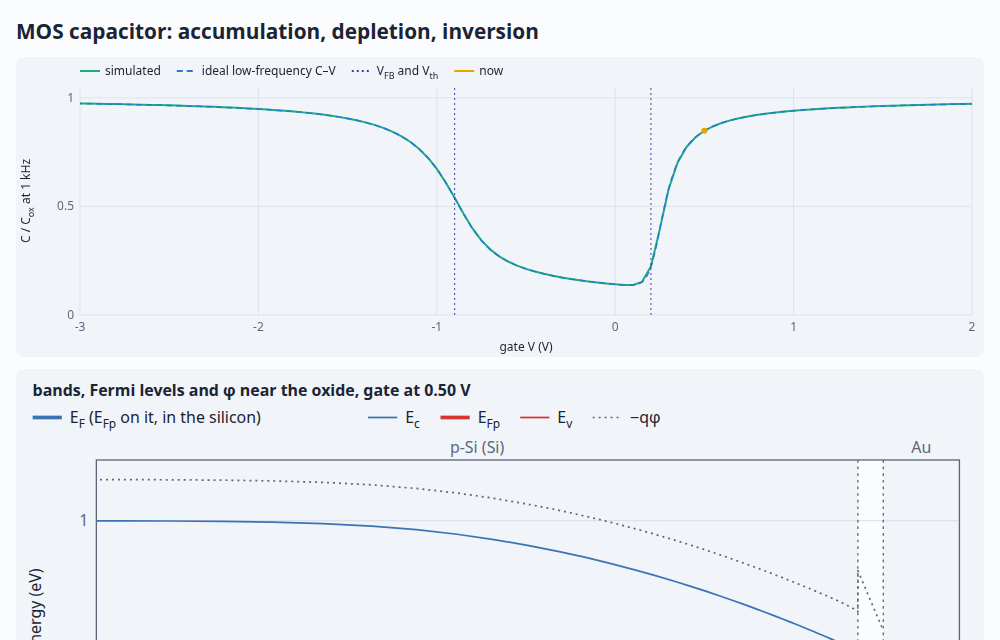
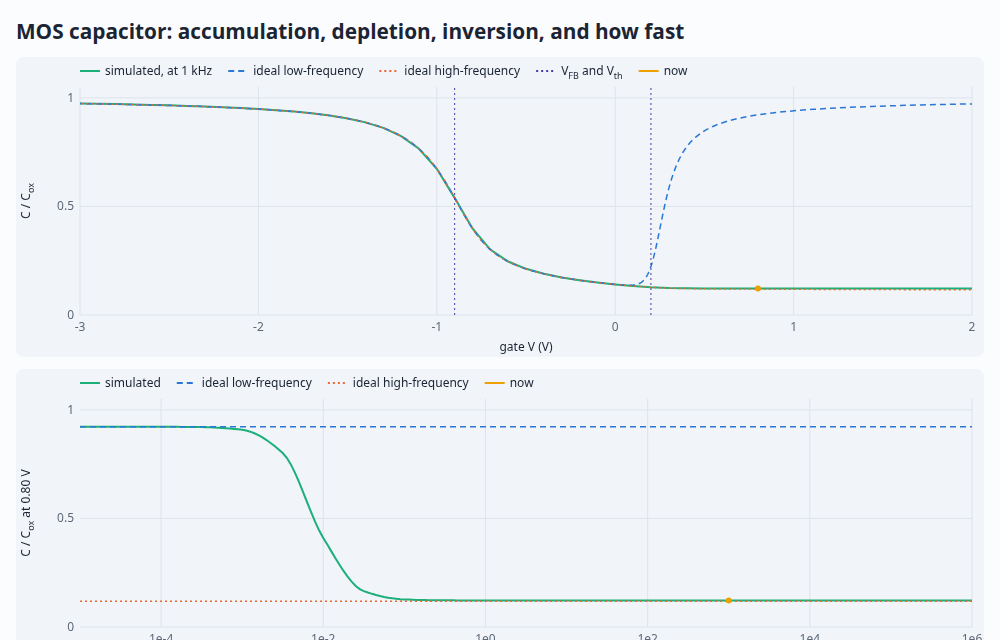
MOS demo: C–V at any frequency, and the minority lifetime
The capacitor alone now (no channel port): its inversion electrons come from
generation in the silicon (SRH, a lifetime slider, or none, leaving diffusion
from the back contact). A frequency slider from 10 µHz to 1 MHz sets the C–V
curve, from the ideal low-frequency one to the high-frequency one, each half
decade solved by the impedance and interpolated (a monotone cubic in log f);
a second chart is the capacitance against frequency at the present gate
voltage, the step where generation stops keeping the layer filled. The
charts take logx.

diff --git a/demos/mos.html b/demos/mos.html
@@ -10,17 +10,23 @@
 <body>
 <main>
 <nav class="site"><a href="./">← all demos</a><a href="https://github.com/markblundeberg/driftlet">driftlet on GitHub</a></nav>
-  <h1>MOS capacitor: accumulation, depletion, inversion</h1>
-  <p>p-type silicon under 5 nm of oxide and a metal gate: its capacitance against the ideal low-frequency
-    C–V curve, and the bands bending at the surface, from accumulation through depletion to inversion. Vary
-    the gate voltage and the doping. (More about the model below.)</p>
-  <div class="controls">
-    <label>gate V <input id="V" type="range" min="-3" max="2" step="0.05" value="0.5"><output id="Vout"></output></label>
+  <h1>MOS capacitor: accumulation, depletion, inversion, and how fast</h1>
+  <p>p-type silicon under 5 nm of oxide and a metal gate: its capacitance at the frequency you choose, against
+    the ideal low- and high-frequency C–V curves, and the bands bending at the surface, from accumulation
+    through depletion to inversion. Slow enough, the inversion layer's electrons follow the gate and the
+    capacitance climbs back to C<sub>ox</sub>; faster, they can't arrive in time, and it stays low. How
+    fast they arrive is set by generation in the silicon (its minority lifetime). (More about the model
+    below.)</p>
+  <div class="controls" id="controls">
+    <label>gate V <input id="V" type="range" min="-3" max="2" step="0.05" value="0.8"><output id="Vout"></output></label>
+    <label>frequency <input id="f" type="range" min="-5" max="6" step="0.05" value="3"><output id="fout"></output></label>
+    <label>lifetime <input id="tau" type="range" min="-9" max="-2" step="0.5" value="-6"><output id="tauout"></output></label>
     <label>doping <input id="NA" type="range" min="16" max="18" step="0.25" value="17"><output id="NAout"></output></label>
     <span class="readout" id="Q"></span>
   </div>
   <div class="grid">
     <canvas class="wide" id="cv"></canvas>
+    <canvas class="wide" id="cf"></canvas>
     <div class="levels wide" id="levels"></div>
     <div class="levels wide" id="conc"></div>
   </div>
@@ -36,9 +42,11 @@
     volts and turned over are <a href="https://github.com/markblundeberg/driftlet/blob/master/docs/visualization.md">species voltages</a>, which earn
     their place where ions share the diagram, as in the electrochemistry and perovskite demos.) Negative bias pulls holes to the surface (accumulation), moderate
     positive bias pushes them away (depletion), and beyond threshold electrons gather in a thin inversion
-    layer. Those electrons come from a port holding them at ground beside the oxide, the 1D stand-in for a
-    transistor's source and drain; without it, they'd have to diffuse in from the back contact, which takes
-    minutes.</p>
+    layer. Those electrons have to come from the silicon itself: generated thermally in the depletion region
+    (the reaction e⁻ + h⁺ ⇌ 0 run backwards, at the Shockley–Read–Hall rate set by the lifetime τ), or
+    diffusing in from the back contact through a bulk that holds only ~10³ of them per cm³. Either way it's
+    slow, which is the point of the frequency control. (In a transistor, source and drain supply them at
+    once; this is the capacitor alone.)</p>
   <p>The electrostatic potential is drawn too, as −qφ (dotted), in the silicon and across the oxide, to show
     what it is and what it isn't. In the oxide, which holds no mobile charge, it's the only line there is,
     and its slope is the oxide field. In the silicon the band edges ride on it, E<sub>c</sub> = −qφ + const,
@@ -48,12 +56,23 @@
     minus φ beside it, when the gate is uncharged) changes to match: the capacitance comes out the same to
     every digit. And φ doesn't meet the gate's Fermi level: a metal has no φ worth comparing, so the line
     just stops.</p>
-  <p>The capacitance at 1 kHz follows the ideal low-frequency C–V curve (dashed: the oxide in series with the
-    silicon's dQ/dψ, from the closed-form surface charge), to four digits. Flat band is at
-    V<sub>FB</sub> = zeroCharge + dipole + φ<sub>bulk</sub>: each term depends on the anchoring, but their sum
-    doesn't, and it's set by the gate interface (a work-function difference). Threshold is where the surface
-    has inverted as strongly as the bulk is doped, ψ<sub>s</sub> = 2φ<sub>F</sub>. More doping widens the
-    window between them and deepens the dip.</p>
+  <p>The capacitance is the small-signal response to a sinusoid on the gate at the chosen frequency
+    (driftlet's impedance, C = −1/(ωZ″)), at each gate voltage, solved for every half decade and interpolated
+    between. Slow enough, it follows the ideal low-frequency C–V curve (dashed: the oxide in series with the
+    silicon's dQ/dψ, from the closed-form surface charge), to 5e-4 of C<sub>ox</sub> at the slowest: accumulation near C<sub>ox</sub>, a
+    depletion dip, and inversion back up, as the inversion layer's electrons come and go with the gate. Fast,
+    only the holes and the depletion edge respond, and in inversion the capacitance stays at its minimum:
+    the high-frequency curve. Its ideal form (dotted) freezes the minority charge in place; here the
+    electrons can't be replaced at that speed but can still shift within the layer, which holds a few percent
+    more (Brews's correction). The lower chart is the capacitance against frequency at the gate voltage
+    you're at: in inversion, a step from one curve to the other, at the frequency where generation can just
+    keep the layer filled. Shorter lifetimes move it up, about tenfold per decade of τ; with no generation at
+    all (the slider's top end), the electrons can only diffuse in from the back contact, and it falls to a
+    millihertz.</p>
+  <p>Flat band is at V<sub>FB</sub> = zeroCharge + dipole + φ<sub>bulk</sub>: each term depends on the
+    anchoring, but their sum doesn't, and it's set by the gate interface (a work-function difference).
+    Threshold is where the surface has inverted as strongly as the bulk is doped, ψ<sub>s</sub> =
+    2φ<sub>F</sub>. More doping widens the window between them and deepens the dip.</p>
 </main>
 <script type="module">
 import { Device, EPS0, AVOGADRO, FARADAY, GAS_CONSTANT, units } from '../src/index.js';
@@ -71,7 +90,7 @@ const anchor = 0.3, dipole = -0.3, zeroCharge = 0.7;
 const silicon = semiconductor('Si');
 silicon.materials.Si.species['e-'].mu0 -= FARADAY * anchor;
 silicon.materials.Si.species['h+'].mu0 += FARADAY * anchor;
-const mos = (NA) =>
+const mos = (NA, tau) =>
   build({
     T: 300,
     library: [silicon, metal('Au')],
@@ -87,73 +106,136 @@ const mos = (NA) =>
       layer('Au', units.nm(50)),
       ohmic(0, ['e-']), // the gate's terminal
     ],
-    // Source and drain in 1D: the inversion layer's electrons held at ground beside the oxide.
-    ports: [{ name: 'channel', region: 'p-Si', from: Lsi - units.nm(5), V: 0, terminal: 'e-', species: { 'e-': 'equilibrium' } }],
+    // Generation and recombination through midgap traps (SRH), lifetime τ for both carriers; none at
+    // all leaves the inversion layer only the bulk's minority electrons, diffusing in.
+    bulkReactions: tau ? [{ equation: 'e- + h+ = 0', srh: { Si: { tauN: tau, tauP: tau } } }] : [],
     grid: { hmin: units.nm(0.1), hmax: units.nm(10), ratio: 1.1 },
   });
 
-const gate = document.getElementById('V'), doping = document.getElementById('NA');
-fromQuery(gate);
-fromQuery(doping);
+const gate = document.getElementById('V'), doping = document.getElementById('NA'), freq = document.getElementById('f'), life = document.getElementById('tau');
+for (const el of [gate, doping, freq, life]) fromQuery(el);
 const NA = () => units.perCm3(10 ** +doping.value); // from 1e16: below, depletion would reach the back contact
+const tau = () => (+life.value >= -2 ? 0 : 10 ** +life.value); // the top end: no generation
+const f = () => 10 ** +freq.value;
 
-// The ideal low-frequency C–V: the surface charge Q_s(ψ_s) in closed form (p₀, n₀ the bulk's
-// densities), the gate voltage V_FB + ψ_s − Q_s/C_ox, and C_ox in series with dQ_s/dψ_s.
+// The ideal C–V curves from the surface charge Q_s(ψ_s) in closed form (p₀, n₀ the bulk's densities):
+// the gate voltage V_FB + ψ_s − Q_s/C_ox, and C_ox in series with the silicon's small-signal dQ/dψ_s:
+// all of Q_s at low frequency, only the holes' and the depletion's at high frequency (the minority
+// charge frozen in place).
 const kT = GAS_CONSTANT * 300, VT = kT / FARADAY, eps = 11.9 * EPS0, Cox = (3.9 * EPS0) / tox;
 function ideal({ p0, n0, VFB }) {
-  const Qs = (psi) => {
-    const b = psi / VT, F2 = Math.exp(-b) + b - 1 + (n0 / p0) * (Math.exp(b) - b - 1);
+  const Qs = (psi, minority = true) => {
+    const b = psi / VT, F2 = Math.exp(-b) + b - 1 + (minority ? (n0 / p0) * (Math.exp(b) - b - 1) : 0);
     return -Math.sign(psi) * Math.sqrt(2 * eps * kT * p0 * Math.max(F2, 0));
   };
-  const V = [], C = [];
+  const V = [], low = [], high = [], h = 1e-5;
   for (let psi = -0.4; psi <= 1.4; psi += 0.005) {
-    const h = 1e-5, Cs = Math.abs(Qs(psi + h) - Qs(psi - h)) / (2 * h);
     V.push(VFB + psi - Qs(psi) / Cox);
-    C.push(1 / (1 + Cox / Cs));
+    low.push(1 / (1 + Cox / (Math.abs(Qs(psi + h) - Qs(psi - h)) / (2 * h))));
+    high.push(1 / (1 + Cox / (Math.abs(Qs(psi + h, false) - Qs(psi - h, false)) / (2 * h))));
   }
   const phiF = VT * Math.log(p0 / Math.sqrt(p0 * n0));
-  return { V, C, VFB, Vth: VFB + 2 * phiF - Qs(2 * phiF) / Cox };
+  return { V, low, high, VFB, Vth: VFB + 2 * phiF - Qs(2 * phiF) / Cox };
 }
+const at = (xs, ys, x) => {
+  let k = 0;
+  while (k < xs.length - 2 && xs[k + 1] < x) k++;
+  const w = Math.min(1, Math.max(0, (x - xs[k]) / (xs[k + 1] - xs[k])));
+  return ys[k] + w * (ys[k + 1] - ys[k]);
+};
 
-// The C–V curve from the small-signal impedance at 1 kHz at each gate voltage, and the theory.
-let cv;
+// The capacitance at every gate voltage (each 0.1 V) and every half decade of frequency, from the
+// small-signal impedance about each steady state; the frequency slider interpolates in log f.
+const VS = Array.from({ length: 51 }, (_, k) => -3 + 0.1 * k);
+const FS = Array.from({ length: 23 }, (_, k) => 10 ** (-5 + 0.5 * k));
+let table;
 function sweep() {
-  const dev = new Device(mos(NA())), rest = dev.solve(), bulk = Math.floor(rest.x.length / 5);
-  cv = { V: [], C: [], theory: ideal({ p0: rest.c['h+'][bulk], n0: rest.c['e-'][bulk], VFB: zeroCharge + dipole + rest.phi[bulk] }) };
-  for (let V = -3; V <= 2.001; V += 0.05) {
+  const dev = new Device(mos(NA(), tau())), rest = dev.solve(), bulk = Math.floor(rest.x.length / 5);
+  table = { C: [], theory: ideal({ p0: rest.c['h+'][bulk], n0: rest.c['e-'][bulk], VFB: zeroCharge + dipole + rest.phi[bulk] }) };
+  for (const V of VS) {
     dev.set({ contacts: { right: { V } } });
-    cv.V.push(V);
-    cv.C.push(-1 / (2 * Math.PI * 1e3 * dev.impedance([1e3]).Z.im[0]) / Cox);
+    dev.solve();
+    const Z = dev.impedance(FS).Z;
+    table.C.push(FS.map((fk, k) => -1 / (2 * Math.PI * fk * Z.im[k]) / Cox));
   }
 }
+// C/C_ox at gate voltage V and frequency f, from the table: linear in V, and in log f a monotone
+// cubic (Fritsch–Carlson), smooth through the step without overshooting it.
+const lf = FS.map(Math.log10);
+function pchip(xs, ys, x) {
+  const n = xs.length;
+  let k = 0;
+  while (k < n - 2 && xs[k + 1] < x) k++;
+  const h = xs[k + 1] - xs[k], t = Math.min(1, Math.max(0, (x - xs[k]) / h));
+  const slope = (i) => (ys[i + 1] - ys[i]) / (xs[i + 1] - xs[i]);
+  const tangent = (i) => {
+    if (i === 0) return slope(0);
+    if (i === n - 1) return slope(n - 2);
+    const a = slope(i - 1), b = slope(i);
+    return a * b <= 0 ? 0 : (2 * a * b) / (a + b);
+  };
+  const m0 = tangent(k) * h, m1 = tangent(k + 1) * h, t2 = t * t, t3 = t2 * t;
+  return (2 * t3 - 3 * t2 + 1) * ys[k] + (t3 - 2 * t2 + t) * m0 + (-2 * t3 + 3 * t2) * ys[k + 1] + (t3 - t2) * m1;
+}
+const C = (V, fq) => at(VS, VS.map((_, j) => pchip(lf, table.C[j], Math.log10(fq))), V);
+const FF = Array.from({ length: 221 }, (_, k) => 10 ** (-5 + 0.05 * k)); // for drawing
 sweep();
 
-const dev = live(mos(NA()), { onsolution: draw });
+const dev = live(mos(NA(), tau()), { onsolution: draw });
 const update = () => dev.set({ contacts: { right: { V: +gate.value } } });
 gate.addEventListener('input', update);
-doping.addEventListener('input', () => (document.getElementById('NAout').textContent = `${(10 ** +doping.value).toExponential(1)} cm⁻³`));
-doping.addEventListener('change', () => {
-  sweep();
-  dev.set(mos(NA()));
-  update();
-});
+freq.addEventListener('input', () => draw(dev.solution));
+const labels = () => {
+  document.getElementById('NAout').textContent = `${(10 ** +doping.value).toExponential(1)} cm⁻³`;
+  const t = tau();
+  document.getElementById('tauout').textContent = t === 0 ? 'no generation' : t < 1e-6 ? `${+(t * 1e9).toPrecision(2)} ns` : t < 1e-3 ? `${+(t * 1e6).toPrecision(2)} µs` : `${+(t * 1e3).toPrecision(2)} ms`;
+  const fq = f();
+  document.getElementById('fout').textContent = fq < 1 ? `${+fq.toPrecision(2)} Hz` : fq < 1e3 ? `${+fq.toPrecision(2)} Hz` : fq < 1e6 ? `${+(fq / 1e3).toPrecision(2)} kHz` : `${+(fq / 1e6).toPrecision(2)} MHz`;
+};
+for (const el of [doping, life]) {
+  el.addEventListener('input', labels);
+  el.addEventListener('change', () => {
+    sweep();
+    dev.set(mos(NA(), tau()));
+    update();
+  });
+}
 update();
 
 function draw(sol) {
-  const V = sol.terminals.right.V, { VFB, Vth } = cv.theory;
+  if (!sol) return;
+  labels();
+  const V = sol.terminals.right.V, fq = f(), { VFB, Vth } = table.theory;
   document.getElementById('Vout').textContent = `${V.toFixed(2)} V`;
-  document.getElementById('NAout').textContent = `${(10 ** +doping.value).toExponential(1)} cm⁻³`;
   const surface = sol.x.findLastIndex((x, g) => sol.region[g] === 0);
   const perCm3 = (c) => (c * AVOGADRO * 1e-6).toExponential(1);
+  // Where the inversion layer stops keeping up, at this gate voltage: halfway from its low- to its
+  // high-frequency capacitance (only once it has inverted).
+  const cf = FF.map((fk) => C(V, fk)), lo = cf[0], hi = cf.at(-1);
+  let corner = '';
+  if (V > Vth && lo - hi > 0.1) {
+    const k = cf.findIndex((c) => c < (lo + hi) / 2);
+    if (k > 0) corner = ` · the inversion layer keeps up below ~${(FF[k] < 1 ? FF[k].toPrecision(1) : Math.round(FF[k]).toPrecision(1))} Hz`;
+  }
   document.getElementById('Q').textContent =
-    `V_FB = ${VFB.toFixed(2)} V · V_th = ${Vth.toFixed(2)} V · at the silicon surface: n = ${perCm3(sol.c['e-'][surface])} cm⁻³, p = ${perCm3(sol.c['h+'][surface])} cm⁻³`;
+    `V_FB = ${VFB.toFixed(2)} V · V_th = ${Vth.toFixed(2)} V · at the silicon surface: n = ${perCm3(sol.c['e-'][surface])} cm⁻³, p = ${perCm3(sol.c['h+'][surface])} cm⁻³${corner}`;
   chart(document.getElementById('cv'), {
-    xlabel: 'gate V (V)', ylabel: 'C / C_ox at 1 kHz', xlim: [-3, 2], ylim: [0, 1.05],
+    xlabel: 'gate V (V)', ylabel: 'C / C_ox', xlim: [-3, 2], ylim: [0, 1.05],
     series: [
-      { x: cv.V, y: cv.C, color: colors[2], label: 'simulated' },
-      { x: cv.theory.V, y: cv.theory.C, color: colors[0], dash: [6, 4], width: 1.5, label: 'ideal low-frequency C–V' },
+      { x: VS, y: VS.map((v) => C(v, fq)), color: colors[2], label: `simulated, at ${document.getElementById('fout').textContent}` },
+      { x: table.theory.V, y: table.theory.low, color: colors[0], dash: [6, 4], width: 1.5, label: 'ideal low-frequency' },
+      { x: table.theory.V, y: table.theory.high, color: colors[1], dash: [2, 3], width: 1.5, label: 'ideal high-frequency' },
       { x: [VFB, VFB, NaN, Vth, Vth], y: [0, 1.05, NaN, 0, 1.05], color: colors[6], dash: [2, 3], width: 1, label: 'V_FB and V_th' },
-      { x: [V], y: [cv.C[Math.round((V + 3) / 0.05)]], color: colors[3], marker: true, width: 0, label: 'now' },
+      { x: [V], y: [C(V, fq)], color: colors[3], marker: true, width: 0, label: 'now' },
+    ],
+  });
+  chart(document.getElementById('cf'), {
+    xlabel: 'frequency (Hz)', ylabel: `C / C_ox at ${V.toFixed(2)} V`, logx: true, xlim: [FS[0], FS.at(-1)], ylim: [0, 1.05],
+    series: [
+      { x: FF, y: cf, color: colors[2], label: 'simulated' },
+      { x: [FS[0], FS.at(-1)], y: [at(table.theory.V, table.theory.low, V), at(table.theory.V, table.theory.low, V)], color: colors[0], dash: [6, 4], width: 1.5, label: 'ideal low-frequency' },
+      { x: [FS[0], FS.at(-1)], y: [at(table.theory.V, table.theory.high, V), at(table.theory.V, table.theory.high, V)], color: colors[1], dash: [2, 3], width: 1.5, label: 'ideal high-frequency' },
+      { x: [fq], y: [C(V, fq)], color: colors[3], marker: true, width: 0, label: 'now' },
     ],
   });
   const xlim = [Lsi - units.nm(150), Lsi + tox + units.nm(15)]; // the surface, the oxide and a little gate

diff --git a/demos/plot.js b/demos/plot.js
@@ -1,6 +1,6 @@
 // Minimal canvas line charts for the demos (no dependencies).
 //
-// chart(canvas, { series, xlabel, ylabel, xlim, ylim, logy, xscale })
+// chart(canvas, { series, xlabel, ylabel, xlim, ylim, logx, logy, xscale })
 //   series: [{ x, y, color, label, dash, width }]. NaN values break a line; repeated x values
 //   (doubled interface nodes) draw as vertical steps. Labels mark subscripts as driftlet/plot's
 //   do: `C_ox`, `c_{Zn²⁺}`.
@@ -36,7 +36,7 @@ function label(ctx, text, x, y, align = 'left') {
 }
 const plain = (text) => labelParts(text).map((p) => (p.sub ? `_${p.text}` : p.text)).join('');
 
-export function chart(canvas, { series, xlabel = '', ylabel = '', xlim, ylim, logy = false, xscale = 1, legend = true }) {
+export function chart(canvas, { series, xlabel = '', ylabel = '', xlim, ylim, logx = false, logy = false, xscale = 1, legend = true }) {
   canvas.setAttribute('role', 'img');
   canvas.setAttribute('aria-label', `${plain(ylabel)} against ${plain(xlabel)}: ${series.map((s) => s.label).filter(Boolean).map(plain).join(', ')}`);
   const dpr = window.devicePixelRatio || 1;
@@ -52,7 +52,8 @@ export function chart(canvas, { series, xlabel = '', ylabel = '', xlim, ylim, lo
   const items = legend ? series.filter((s) => s.label) : [];
   const pad = { l: 64, r: 12, t: items.length ? 30 : 12, b: 42 };
   const fy = logy ? (v) => (v > 0 ? Math.log10(v) : NaN) : (v) => v;
-  let [x0, x1] = xlim ?? extent(series.flatMap((s) => Array.from(s.x, (v) => v * xscale)));
+  const fx = logx ? (v) => (v > 0 ? Math.log10(v * xscale) : NaN) : (v) => v * xscale;
+  let [x0, x1] = xlim ? (logx ? xlim.map(Math.log10) : xlim) : extent(series.flatMap((s) => Array.from(s.x, fx)));
   let [y0, y1] = ylim ? ylim.map(fy) : extent(series.flatMap((s) => Array.from(s.y, fy)));
   if (!(x1 > x0)) [x0, x1] = [x0 - 1, x0 + 1];
   if (!(y1 > y0)) [y0, y1] = [y0 - 1, y0 + 1];
@@ -69,13 +70,13 @@ export function chart(canvas, { series, xlabel = '', ylabel = '', xlim, ylim, lo
   ctx.fillStyle = muted;
   ctx.strokeStyle = grid;
   ctx.lineWidth = 1;
-  for (const t of ticks(x0, x1, 6)) {
+  for (const t of logx ? ticks(Math.ceil(x0), Math.floor(x1), 6).filter(Number.isInteger) : ticks(x0, x1, 6)) {
     ctx.beginPath();
     ctx.moveTo(px(t), pad.t);
     ctx.lineTo(px(t), H - pad.b);
     ctx.stroke();
     ctx.textAlign = 'center';
-    ctx.fillText(fmt(t), px(t), H - pad.b + 16);
+    ctx.fillText(logx ? `1e${t}` : fmt(t), px(t), H - pad.b + 16);
   }
   for (const t of logy ? ticks(Math.ceil(y0), Math.floor(y1), 6).filter(Number.isInteger) : ticks(y0, y1, 5)) {
     ctx.beginPath();
@@ -110,7 +111,11 @@ export function chart(canvas, { series, xlabel = '', ylabel = '', xlim, ylim, lo
         pen = false;
         continue;
       }
-      const X = px(s.x[i] * xscale), Y = py(y);
+      const X = px(fx(s.x[i])), Y = py(y);
+      if (!Number.isFinite(X)) {
+        pen = false;
+        continue;
+      }
       if (pen) ctx.lineTo(X, Y);
       else ctx.moveTo(X, Y);
       pen = true;
@@ -122,7 +127,7 @@ export function chart(canvas, { series, xlabel = '', ylabel = '', xlim, ylim, lo
         const y = fy(s.y[i]);
         if (Number.isFinite(y)) {
           ctx.beginPath();
-          ctx.arc(px(s.x[i] * xscale), py(y), 3, 0, 2 * Math.PI);
+          ctx.arc(px(fx(s.x[i])), py(y), 3, 0, 2 * Math.PI);
           ctx.fill();
         }
       }

diff --git a/demos/index.html b/demos/index.html
@@ -23,7 +23,7 @@
     <a class="card" href="solar.html"><img src="screenshots/solar.png" alt="solar cell"><div><b>Solar cell</b><span>Light absorbed as it goes in, colour by colour: J–V and the spectral response against collection theory, blue lost in the emitter, the split quasi-Fermi levels.</span></div></a>
     <a class="card" href="organic.html"><img src="screenshots/organic.png" alt="organic bilayer solar cell"><div><b>Organic solar cell</b><span>Light makes neutral excitons that diffuse to a donor/acceptor interface and split: J<sub>sc</sub> against thickness and V<sub>oc</sub> by detailed balance, both against theory.</span></div></a>
     <a class="card" href="perovskite.html"><img src="screenshots/perovskite.png" alt="perovskite hysteresis"><div><b>Perovskite hysteresis</b><span>Mobile iodide vacancies make the J–V curve depend on scan rate: the loop opening and closing, the vacancies' layers at each face, against IonMonger.</span></div></a>
-    <a class="card" href="mos.html"><img src="screenshots/mos.png" alt="MOS capacitor"><div><b>MOS capacitor</b><span>Accumulation, depletion and inversion under a metal gate; the C–V curve against ideal theory, V<sub>FB</sub> and V<sub>th</sub>.</span></div></a>
+    <a class="card" href="mos.html"><img src="screenshots/mos.png" alt="MOS capacitor"><div><b>MOS capacitor</b><span>Accumulation, depletion and inversion under a metal gate; C–V at any frequency, from the low-frequency curve to the high, as generation stops keeping up.</span></div></a>
   </div>
 
   <h2>Electrochemistry</h2>

diff --git a/README.md b/README.md
@@ -143,7 +143,7 @@ them locally, serve the repository root (e.g. `python3 -m http.server`) and open
 | | | |
 |---|---|---|
 | [![pn junction](demos/screenshots/pn.png)](https://markblundeberg.github.io/driftlet/demos/pn.html) | [![solar cell](demos/screenshots/solar.png)](https://markblundeberg.github.io/driftlet/demos/solar.html) | [![MOS capacitor](demos/screenshots/mos.png)](https://markblundeberg.github.io/driftlet/demos/mos.html) |
-| **pn junction**: quasi-Fermi levels under bias; I–V against Shockley | **Solar cell**: J<sub>sc</sub> and V<sub>oc</sub> against collection theory | **MOS capacitor**: band bending; C–V against ideal theory |
+| **pn junction**: quasi-Fermi levels under bias; I–V against Shockley | **Solar cell**: J<sub>sc</sub> and V<sub>oc</sub> against collection theory | **MOS capacitor**: band bending; C–V at any frequency, low to high |
 | [![cyclic voltammetry](demos/screenshots/redox.png)](https://markblundeberg.github.io/driftlet/demos/redox.html) | [![Daniell cell](demos/screenshots/daniell.png)](https://markblundeberg.github.io/driftlet/demos/daniell.html) | [![saturation](demos/screenshots/saturation.png)](https://markblundeberg.github.io/driftlet/demos/saturation.html) |
 | **Cyclic voltammetry**: a Fermi level against a redox level | **Daniell cell**: a real salt bridge, leaking, ion by ion | **Saturation**: Ag \| AgNO₃ \| Ag up to its limiting current, and a thin-film transistor pinching off, against the charge-sheet model |
 | [![impedance](demos/screenshots/impedance.png)](https://markblundeberg.github.io/driftlet/demos/impedance.html) | [![ion-exchange membrane](demos/screenshots/membrane.png)](https://markblundeberg.github.io/driftlet/demos/membrane.html) | [![double layer](demos/screenshots/double-layer.png)](https://markblundeberg.github.io/driftlet/demos/double-layer.html) |
@@ -260,7 +260,7 @@ Every physics feature is tested against analytic results (`npm test`, node's bui
 | Time integration | BE first order, BDF2 second order; adaptive error control | ratios 2, 4 |
 | Advection and eddy mixing | exact convection–diffusion profile; `D + D_mix`; junction EMF unchanged by mixing | 1e-12; 1e-12; 1e-5 |
 | Metal regions | ohmic; Schottky face and MOS gate equal their contact forms; Ag \| AgNO₃ \| Ag with metal electrodes; bipolar electrode at V/2 | 1e-12; 1e-9; 1e-9; 1e-9 |
-| Internal ports | transmission line σV tanh(L/λ)/λ (O(h²)); held level; MOS low-frequency C–V with a grounded channel | 1e-4; 1e-9; 2e-3 |
+| Internal ports | transmission line σV tanh(L/λ)/λ (O(h²)); held level; MOS low-frequency C–V with a grounded channel, and without one the same equilibrium, and a gate step filling the inversion layer to it | 1e-4; 1e-9; 2e-3; 1e-6; 1e-3 |
 | Cross-sections (spherical, cylindrical, any A(x)) | steady diffusion to a sphere and a cylinder (exact on any grid); Cottrell with the spherical term; uptake by a sphere filling from its surface; Debye–Hückel around a charged sphere, potential and charge | 1e-10; 3e-4; 2e-4; 1e-3, 3e-4 |
 | A capacitance through a port | a thin-film transistor against the charge-sheet model (below threshold to saturation, second order); de Levie impedance; gate impedance against dQ/dV | 5e-4; 1e-3; 1e-6 |
 | Electrode surfaces (coverage) | Langmuir isotherm against potential; the charge to fill a surface; the active–passive curve, blocking exactly (1 − θ) | 1e-9; 1e-3; 1e-9 |

diff --git a/CHANGELOG.md b/CHANGELOG.md
@@ -4,6 +4,11 @@ driftlet follows semantic versioning; while it's 0.x, a minor version may change
 
 ## Unreleased
 
+- The MOS demo has frequency and lifetime controls: its C–V at any frequency from 10 µHz to 1 MHz,
+  against the ideal low- and high-frequency curves, and the capacitance against frequency at the
+  present gate voltage, the step where generation (SRH, lifetime τ) stops keeping the inversion
+  layer filled. Without a channel port now, as a capacitor alone. The demos' charts take `logx`.
+
 - A MOS capacitor without a channel port is robust. Steady solves pin a species' level flat at
   its contact's where it's reached by that one contact only and nothing else touches it (no flux
   in a steady state), rather than find it through the bulk's ~1e3 minority electrons per cm³: they
